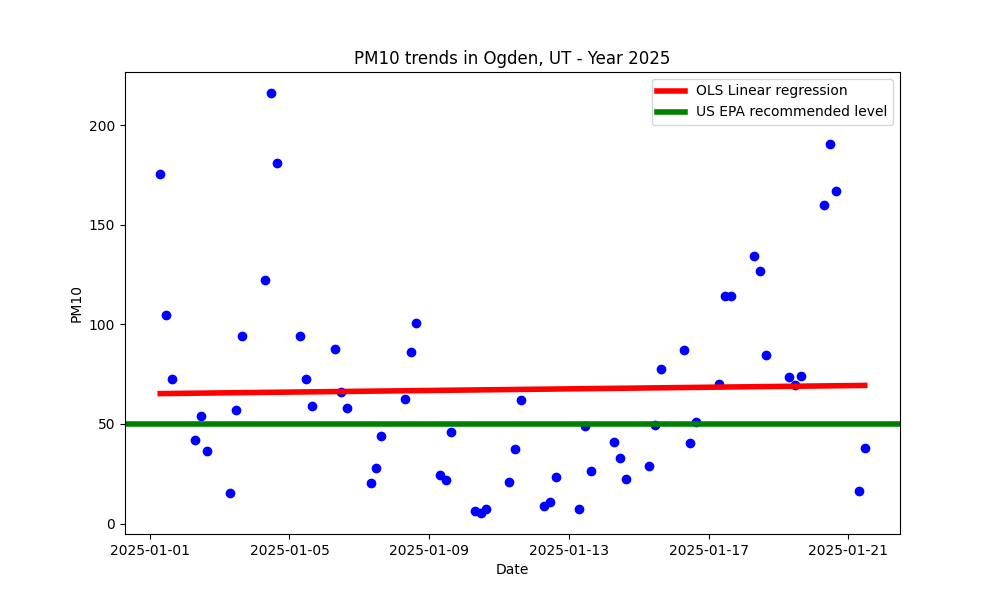
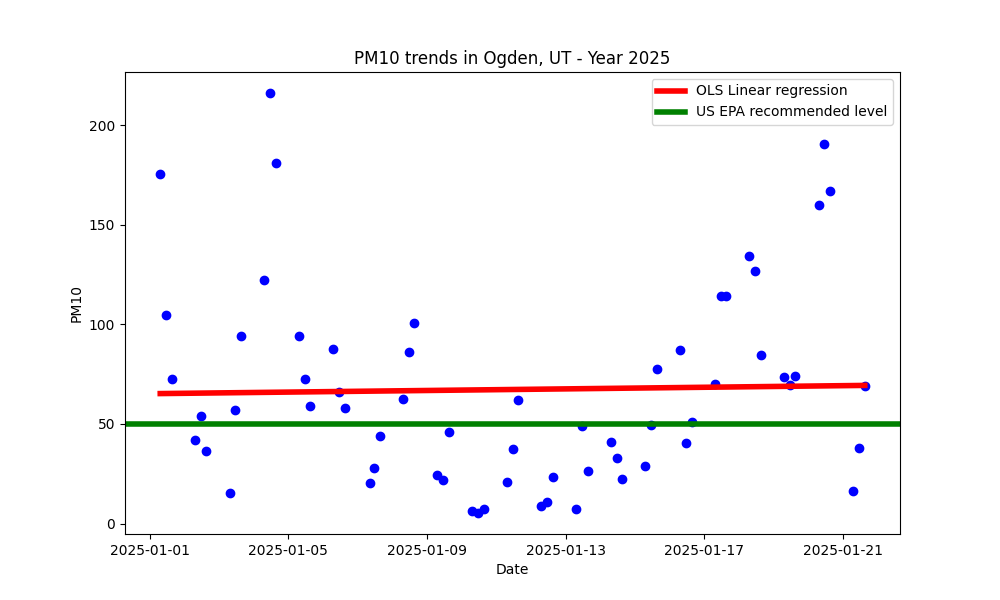
Auto update README

diff --git a/README.md b/README.md
@@ -6,14 +6,14 @@
 I'm a pharmacist 💊 and clinical informatician 📈 living in <b>Utah</b>, USA. 
 This tiny project has given me an excuse to play with API calls, GitHub Actions, and automated document updates. 
 Today, the sun rose at <b>08:47 AM</b> and sets at <b>06:30 PM</b>. 
-As of <b>11:19 AM MST </b> the temperature is <b>23.8°F</b> 🏂 ❄ ⛄.</p>
+As of <b>03:13 PM MST </b> the temperature is <b>31.7°F</b> 🏂 ❄ ⛄.</p>
 <br>
-The air quality in my area is currently <b>fair (PM10: 37.89)</b>. This project automatically collects, stores, and visualizes trends in airborne particulate 
+The air quality in my area is currently <b>moderate (PM10: 68.9)</b>. This project automatically collects, stores, and visualizes trends in airborne particulate 
 matter changes in my area. Specifically particulate matter smaller than 10 micrometers (PM10).
 <br>
 <br>
 So far, this repo has been collecting PM10 air quality data three times per day for the last <b>864</b> days.
-During this time, <b>921</b> of <b>2586</b> ( <b>35.6% </b>) of all PM10 points collected
+During this time, <b>922</b> of <b>2587</b> ( <b>35.6% </b>) of all PM10 points collected
 exceeded the recommended US EPA level of 50 PM10.
 <br>
 <br>
@@ -59,7 +59,7 @@ src="https://stackoverflow-badge.onrender.com/api/StackOverflowBadge/14122375" /
 </p>
 <p align="center">
 <br>
-<text>One: Demonstrations always crash. And two: The probability of them crashing goes up exponentially with the number of people watching.<br> —Steve Jobs</text>
+<text>I know a lot about artificial intelligence. But not as much as it knows about me.<br> —Dave Waters, Geology Professor and Machine Learning enthusiast</text>
 </p>
 <br>
 <p align="center">
@@ -68,5 +68,5 @@ src="https://stackoverflow-badge.onrender.com/api/StackOverflowBadge/14122375" /
   <img alt="README Update" 
   src="https://github.com/claytonjhamilton/claytonjhamilton/actions/workflows/readme_update.yaml/badge.svg" />
   <br>
-Last updated on: 2025-01-21 11:19 AM MST
+Last updated on: 2025-01-21 03:13 PM MST
 </p>
